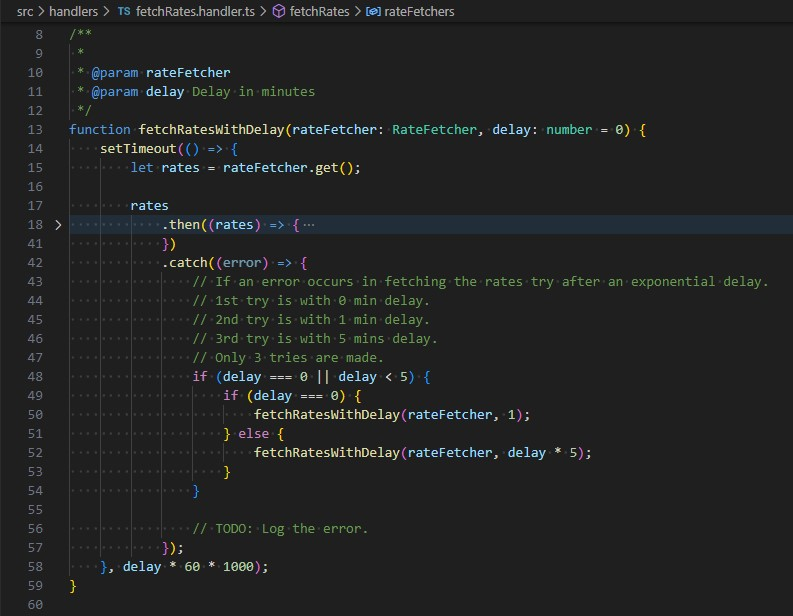
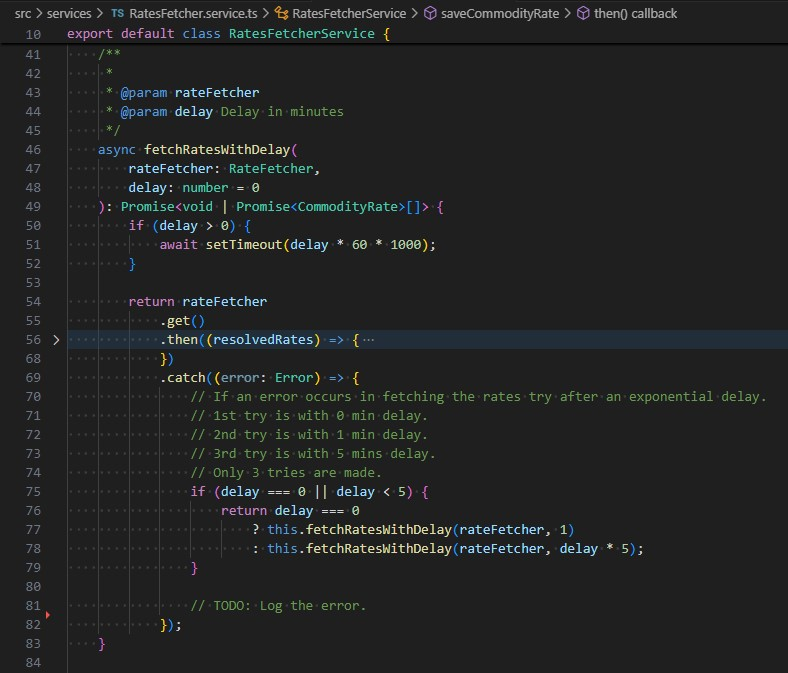
RatesFetcher.service.test is updated.
- New test 'should try 3 times to fetch the rates if the API request fails' is added.

diff --git a/src/tests/RateFetcher.service.test.ts b/src/tests/RateFetcher.service.test.ts
@@ -3,6 +3,7 @@ import RatesFetcherService from '../services/RatesFetcher.service';
 import GoldRatesFetcher from '../rate_fetchers/gold_rates/GoldRatesFetcher';
 import CommodityRate from '../database/models/CommodityRate.model';
 import sequelize from '../database/connection';
+import { setTimeout } from 'timers/promises';
 
 beforeEach(() => {
     jest.resetAllMocks();
@@ -14,13 +15,18 @@ beforeEach(() => {
     });
 });
 
+// Mock the setTimeout function.
+jest.mock('timers/promises', () => ({
+    setTimeout: jest.fn(),
+}));
+
 afterAll(() => {
     // Close the connections to the database after running the tests.
     sequelize.close();
 });
 
 describe('RateFetcher.service tests', () => {
-    test('should fetch rates and create datebase records', async () => {
+    test('should fetch the rates and create datebase records', async () => {
         // Assert the database do not have any record.
         expect((await CommodityRate.findAll()).length).toBe(0);
 
@@ -79,5 +85,29 @@ describe('RateFetcher.service tests', () => {
                 description: response.data.description,
             },
         });
+    });
+
+    test('should try 3 times to fetch the rates if the API request fails', async () => {
+        // Mock the axios GET request to return error.
+        jest.spyOn(axios, 'get').mockRejectedValue(new Error('404'));
+        // Mock the implementation of setTimeout
+        (setTimeout as jest.Mock).mockReturnValue(Promise.resolve(null)); // Simulate the timeout resolving
+
+        // Create an instance of the RatesFetcherService only with the GoldRatesFetcher.
+        const ratesFetcher: RatesFetcherService = new RatesFetcherService([
+            new GoldRatesFetcher(),
+        ]);
+
+        await ratesFetcher.fetchRates();
+
+        // Assertions
+        // API endpoint was called 3 times.
+        expect(axios.get).toHaveBeenCalledTimes(3);
+        // setTimeout function was called 2 times.
+        expect(setTimeout).toHaveBeenCalledTimes(2);
+        // setTimeout function was called with 60,000 milliseconds (1 minute) for the 2nd try.
+        expect(setTimeout).toHaveBeenNthCalledWith(1, 60000);
+        // setTimeout function was called with 300,000 milliseconds (5 minutes) for the 3rd try.
+        expect(setTimeout).toHaveBeenNthCalledWith(2, 300000);
     });
 });

diff --git a/src/services/RatesFetcher.service.ts b/src/services/RatesFetcher.service.ts
@@ -73,19 +73,17 @@ export default class RatesFetcherService {
                 // 3rd try is with 5 mins delay.
                 // Only 3 tries are made.
                 if (delay === 0 || delay < 5) {
-                    if (delay === 0) {
-                        this.fetchRatesWithDelay(rateFetcher, 1);
-                    } else {
-                        this.fetchRatesWithDelay(rateFetcher, delay * 5);
-                    }
+                    return delay === 0
+                        ? this.fetchRatesWithDelay(rateFetcher, 1)
+                        : this.fetchRatesWithDelay(rateFetcher, delay * 5);
                 }
 
                 // TODO: Log the error.
-                console.error(
-                    new Date().toISOString().split('T')[1],
-                    error.message,
-                    error.stack
-                );
+                // console.error(
+                //     new Date().toISOString().split('T')[1],
+                //     error.message,
+                //     error.stack
+                // );
             });
     }
 
@@ -99,17 +97,11 @@ export default class RatesFetcherService {
                 date: rateDto.date,
             },
         }).then((commodityRate: CommodityRate | null) => {
-            let dbCommodityRate: Promise<CommodityRate>;
-
-            if (commodityRate) {
-                // If a rate already exists, update it.
-                dbCommodityRate = commodityRate.update(rateDto);
-            } else {
-                // Else create one.
-                dbCommodityRate = CommodityRate.create(rateDto);
-            }
-
-            return dbCommodityRate;
+            // If a rate already exists, update it.
+            // Else create one.
+            return commodityRate
+                ? commodityRate.update(rateDto)
+                : CommodityRate.create(rateDto);
         });
     }
 }
